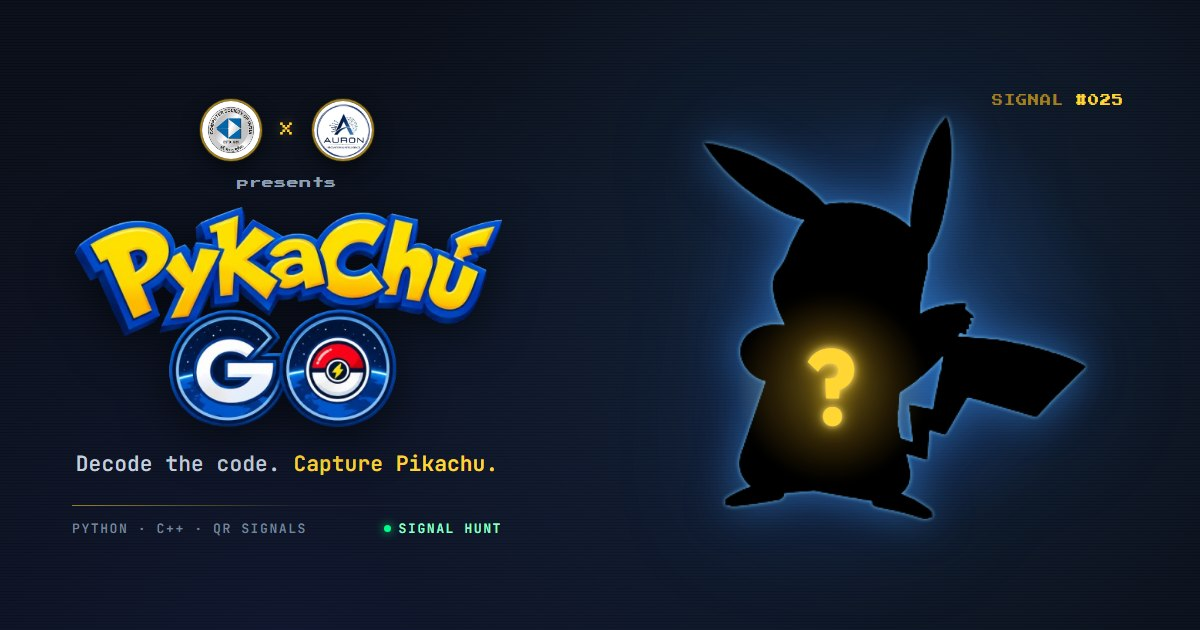
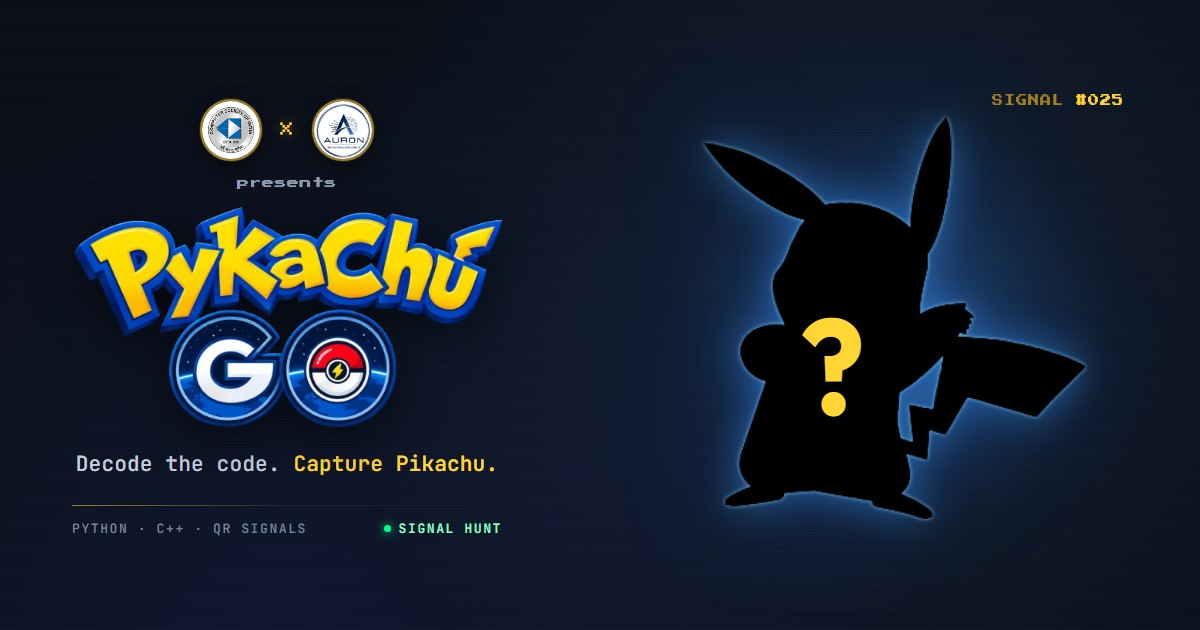
Enlarge the question mark, remove its glow and lift it slightly

Changed region(s): [[0.6167, 0.4825, 0.7708, 0.754]]

diff --git a/scripts/og-card.html b/scripts/og-card.html
@@ -359,8 +359,8 @@
         /* =========================================================
            QUESTION MARK
            
-           A normal (non-pixel) bold sans glyph with a gold glow,
-           positioned over the Pikachu body.
+           A normal (non-pixel) bold sans glyph, no glow, positioned
+           over the Pikachu body.
         ========================================================= */
 
         .question-mark {
@@ -370,20 +370,20 @@
               The silhouette's visual body centre is not its box centre: the
               artwork has transparent padding, one ear sits top-right and the
               tail pulls mass to the bottom-right. Measured on pikachu.png, the
-              thick lower-left body lobe sits around 33% / 67% of the image.
+              thick lower-left body lobe sits around 33% / 62% of the image.
               The sub-pixel offsets correct the Outfit "?" ink bearing so the
               glyph ink - not its box - lands on that point.
             */
             left: 33%;
-            top: 67%;
+            top: 62%;
 
-            transform: translate(calc(-50% + 0.5px), calc(-50% + 1px));
+            transform: translate(calc(-50% + 1.1px), calc(-50% + 0.1px));
 
             z-index: 5;
 
             font-family: var(--sans);
 
-            font-size: 104px;
+            font-size: 132px;
 
             font-weight: 700;
 
@@ -391,41 +391,9 @@
 
             color: #ffd633;
 
-            text-shadow:
-                0 0 6px rgba(255, 228, 130, 0.95),
-                0 0 18px rgba(255, 214, 51, 0.85),
-                0 0 44px rgba(255, 190, 40, 0.60);
-
             pointer-events: none;
 
             user-select: none;
-        }
-
-        /* Soft gold aura behind the glyph so the glow reads at thumbnail size,
-           where a plain text-shadow is too tight to be seen. */
-        .question-mark::before {
-            content: '';
-
-            position: absolute;
-            left: 50%;
-            top: 50%;
-
-            width: 200px;
-            height: 200px;
-
-            transform: translate(-50%, -50%);
-
-            border-radius: 50%;
-
-            background:
-                radial-gradient(circle,
-                    rgba(255, 214, 51, 0.34),
-                    rgba(255, 186, 36, 0.14) 44%,
-                    transparent 68%);
-
-            filter: blur(3px);
-
-            z-index: -1;
         }
 
         /* =========================================================
